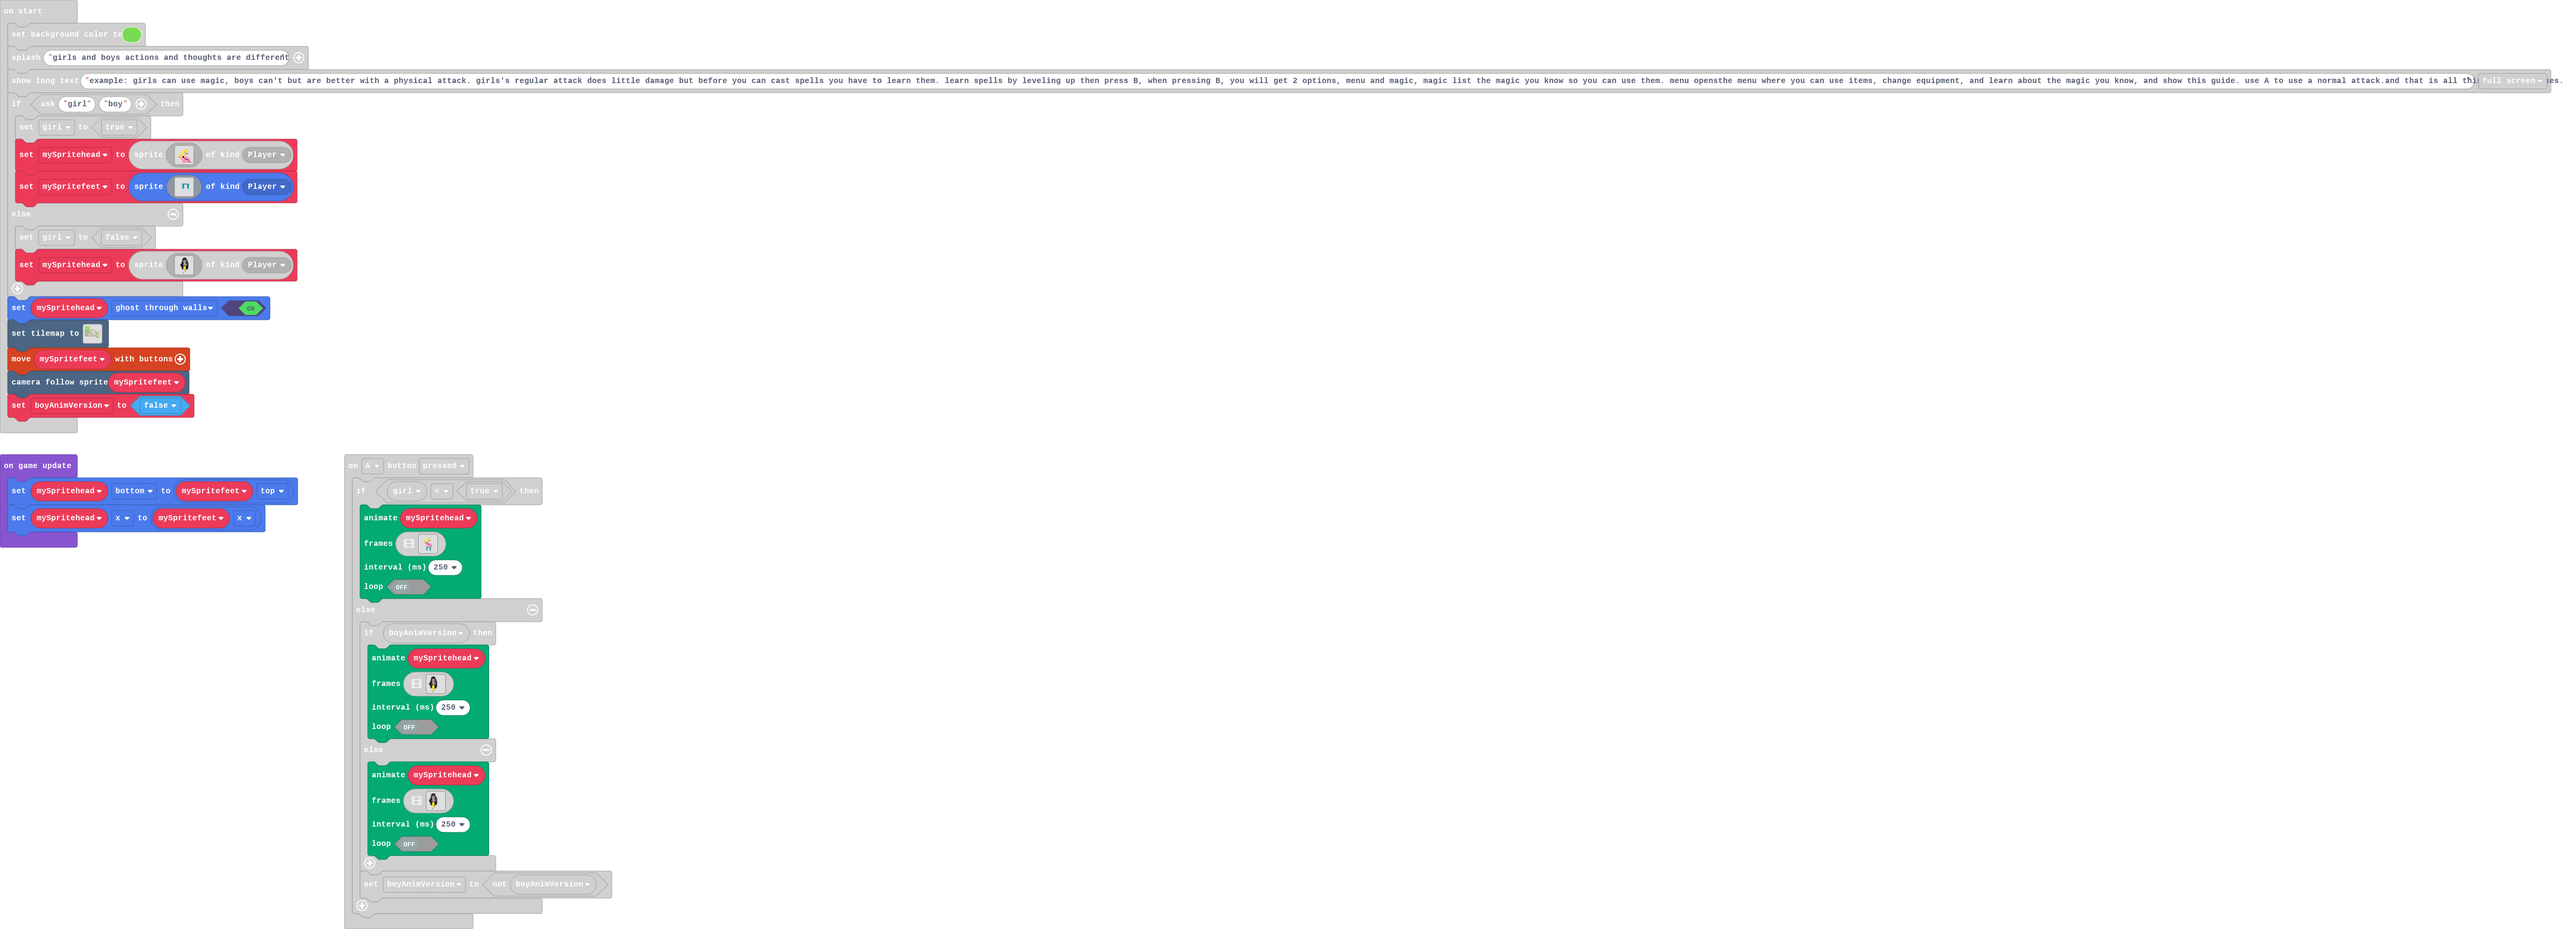
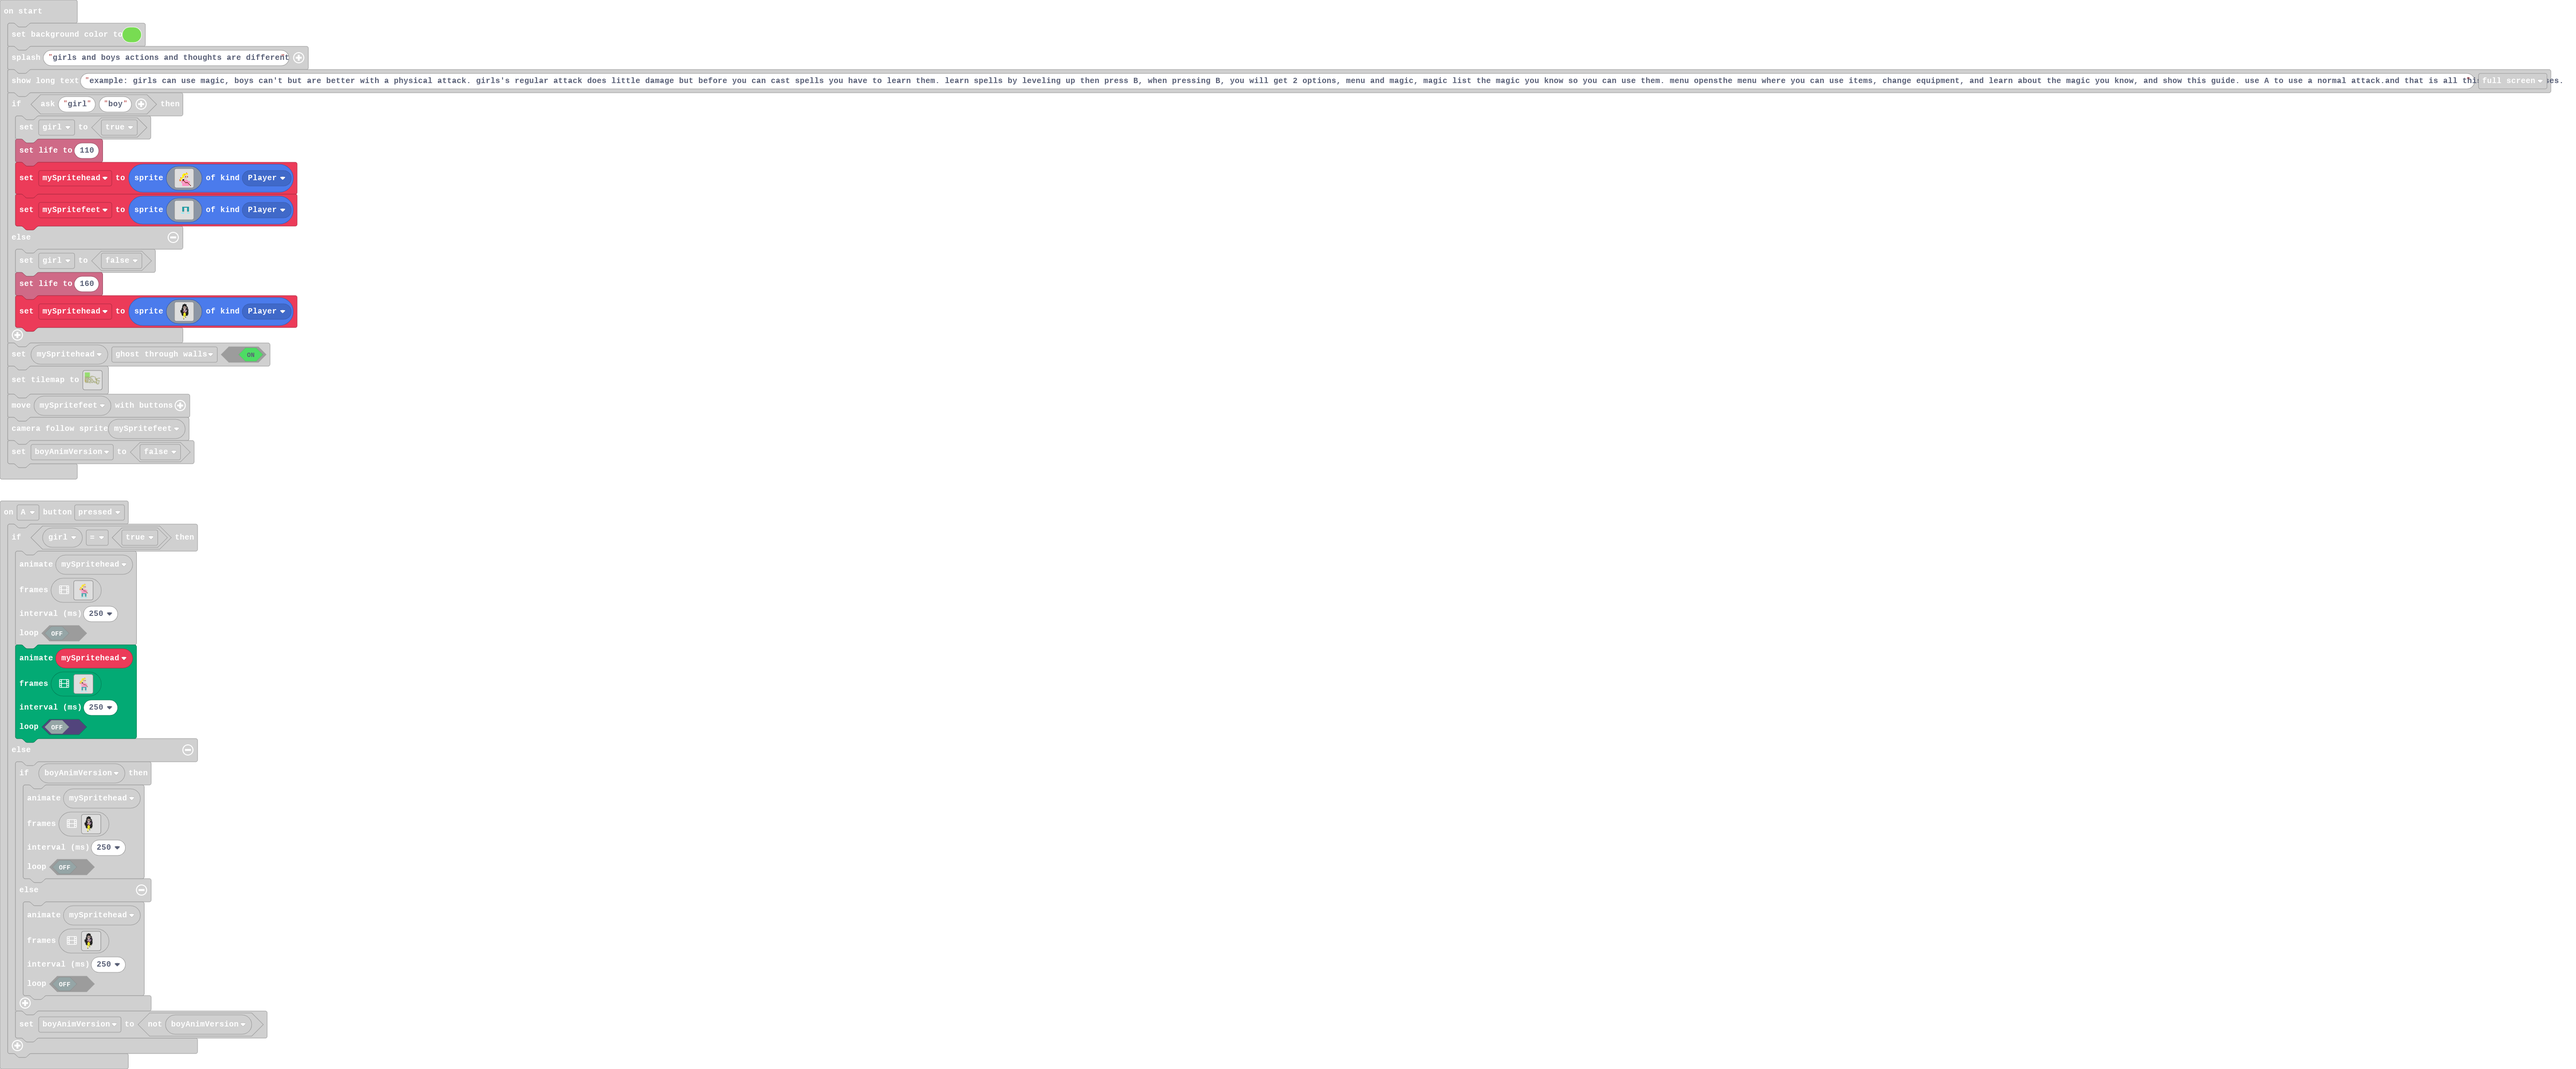
Update pxt.json, main.blocks, main.ts, images.g.jres

Changed region(s): [[0.0, 0.0, 0.9966, 1.0]]

diff --git a/main.ts b/main.ts
@@ -1,5 +1,17 @@
+enum ActionKind {
+    Walking,
+    Idle,
+    Jumping,
+    spinning
+}
 controller.A.onEvent(ControllerButtonEvent.Pressed, function () {
     if (girl == true) {
+        animation.runImageAnimation(
+        mySpritehead,
+        assets.animation`girl animation`,
+        250,
+        false
+        )
         animation.runImageAnimation(
         mySpritehead,
         assets.animation`girl animation`,
@@ -34,10 +46,12 @@ game.splash("girls and boys actions and thoughts are different")
 game.showLongText("example: girls can use magic, boys can't but are better with a physical attack. girls's regular attack does little damage but before you can cast spells you have to learn them. learn spells by leveling up then press B, when pressing B, you will get 2 options, menu and magic, magic list the magic you know so you can use them. menu opensthe menu where you can use items, change equipment, and learn about the magic you know, and show this guide. use A to use a normal attack.and that is all this guide possesses.", DialogLayout.Full)
 if (game.ask("girl", "boy")) {
     girl = true
+    info.setLife(110)
     mySpritehead = sprites.create(assets.image`girl Head`, SpriteKind.Player)
     mySpritefeet = sprites.create(assets.image`girlBottom`, SpriteKind.Player)
 } else {
     girl = false
+    info.setLife(160)
     mySpritehead = sprites.create(assets.image`boy`, SpriteKind.Player)
 }
 mySpritehead.setFlag(SpriteFlag.GhostThroughWalls, true)
